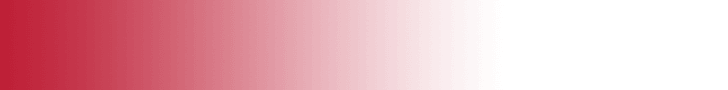
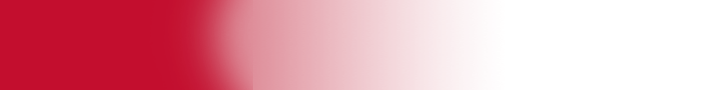
update

Changed region(s): [[0.0302, 0.0, 0.3626, 1.0]]

diff --git a/DSF_2017/Africa/728x90_EN_new/index.html b/DSF_2017/Africa/728x90_EN_new/index.html
@@ -41,13 +41,20 @@
             tl.to(confetti_3, 0.5, {autoAlpha:1, scale:1, top:0, left:0, ease: Power2.easeInOut},'-=0.35');
             tl.to(confetti_4, 0.5, {autoAlpha:1, scale:1, top:0, left:0, ease: Power2.easeInOut},'-=0.35');
 
+            tl.to(f1_confetti_4, 0.5, {autoAlpha:0, scale:1.2, top:0, left:-50, ease: Power2.easeInOut});
+            tl.to(f1_confetti_5, 0.5, {autoAlpha:0, scale:1.2, top:0, left:-50, ease: Power2.easeInOut},'-=0.3');
+            tl.to(confetti_1, 0.5, {autoAlpha:0, scale:1.2, top:0, left:-50, ease: Power2.easeInOut},'-=0.3');
+            tl.to(confetti_2, 0.5, {autoAlpha:0, scale:1.2, top:0, left:-50, ease: Power2.easeInOut},'-=0.3');
+            tl.to(confetti_3, 0.5, {autoAlpha:0, scale:1.2, top:0, left:-50, ease: Power2.easeInOut},'-=0.3');
 
+            tl.to(text2, 0.5, {autoAlpha: 0, ease: Power2.easeInOut}, '-=0.8');
 
-
-	    	// tl.to(text2, 0.5, {autoAlpha: 0, ease: Power2.easeInOut})
-	    	// 	.to([mask,redBg], 0.5, {autoAlpha: 1, ease: Power2.easeInOut})
-	    	// 	.to(logo, 0.5, {autoAlpha: 1, ease: Power3.easeInOut})
-	    	// 	.to(text3, 0.5, {autoAlpha: 1, left:0, ease: Power2.easeInOut, onComplete:onLoop});
+            tl.to(redBg, 1, {autoAlpha: 1, width:728,  ease: Power0.easeInOut},'-=1')
+                .to(mask, 0.5, {autoAlpha: 1, ease: Power2.easeInOut}, '-=0.5')
+                .to(confetti_4_over, 0.5, {autoAlpha: 1, ease: Power2.easeInOut}, '-=0.5')
+	    		.to(confetti_4, 0.5, {autoAlpha: 0, ease: Power2.easeInOut}, '-=0.5')
+	    		.to(logo, 0.5, {autoAlpha: 1, ease: Power3.easeInOut})
+	    		.to(text3, 0.5, {autoAlpha: 1, left:0, ease: Power2.easeInOut, onComplete:onLoop});
 	    }
 
 	    function restart() {
@@ -75,6 +82,7 @@
     <div id="banner">
         <a class="click-tag" href="javascript:window.open(window.clickTag)" target="_blank">
             <div id="redBg" class="layer"></div>
+            <div id="mask" class="layer"></div>
             <div id="f1_confetti_1" class="confetties"><img src="f1_confetti_1.png"></div>
             <div id="f1_confetti_2" class="confetties"><img src="f1_confetti_2.png"></div>
             <div id="f1_confetti_3" class="confetties"><img src="f1_confetti_3.png"></div>
@@ -84,7 +92,7 @@
             <div id="confetti_2" class="confetties"><img src="confetti_2.png"></div>
             <div id="confetti_3" class="confetties"><img src="confetti_3.png"></div>
             <div id="confetti_4" class="confetties"><img src="confetti_4.png"></div>
-            <div id="mask" class="layer"></div>
+            <div id="confetti_4_over" class="layer"><img src="confetti_4_over.png"></div>
             <div id="text1" class="layer"></div>
             <div id="text2" class="layer"></div>
             <div id="text3" class="layer"></div>

diff --git a/DSF_2017/Africa/728x90_EN_new/styles.css b/DSF_2017/Africa/728x90_EN_new/styles.css
@@ -63,7 +63,11 @@ a {
   background: url("mask.png") center no-repeat;
 }
 #redBg {
-  background: url("redBg.png") center no-repeat;
+  background: url("redBg.png") right no-repeat;
+  left: auto;
+  right: 0;
+  width: 0;
+  opacity: 1;
 }
 #logo {
   background: url("logo.png") center no-repeat;
